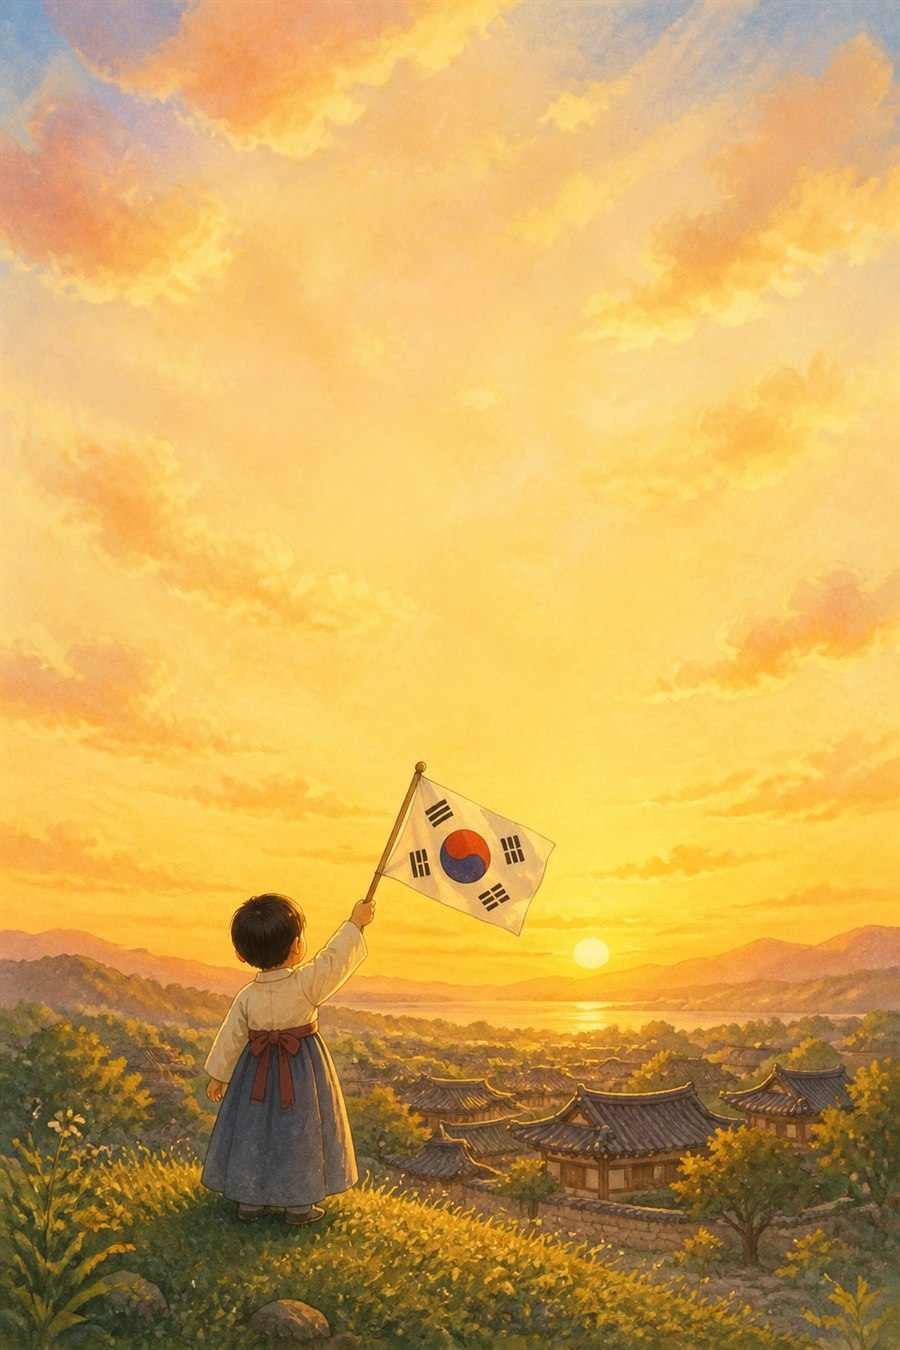
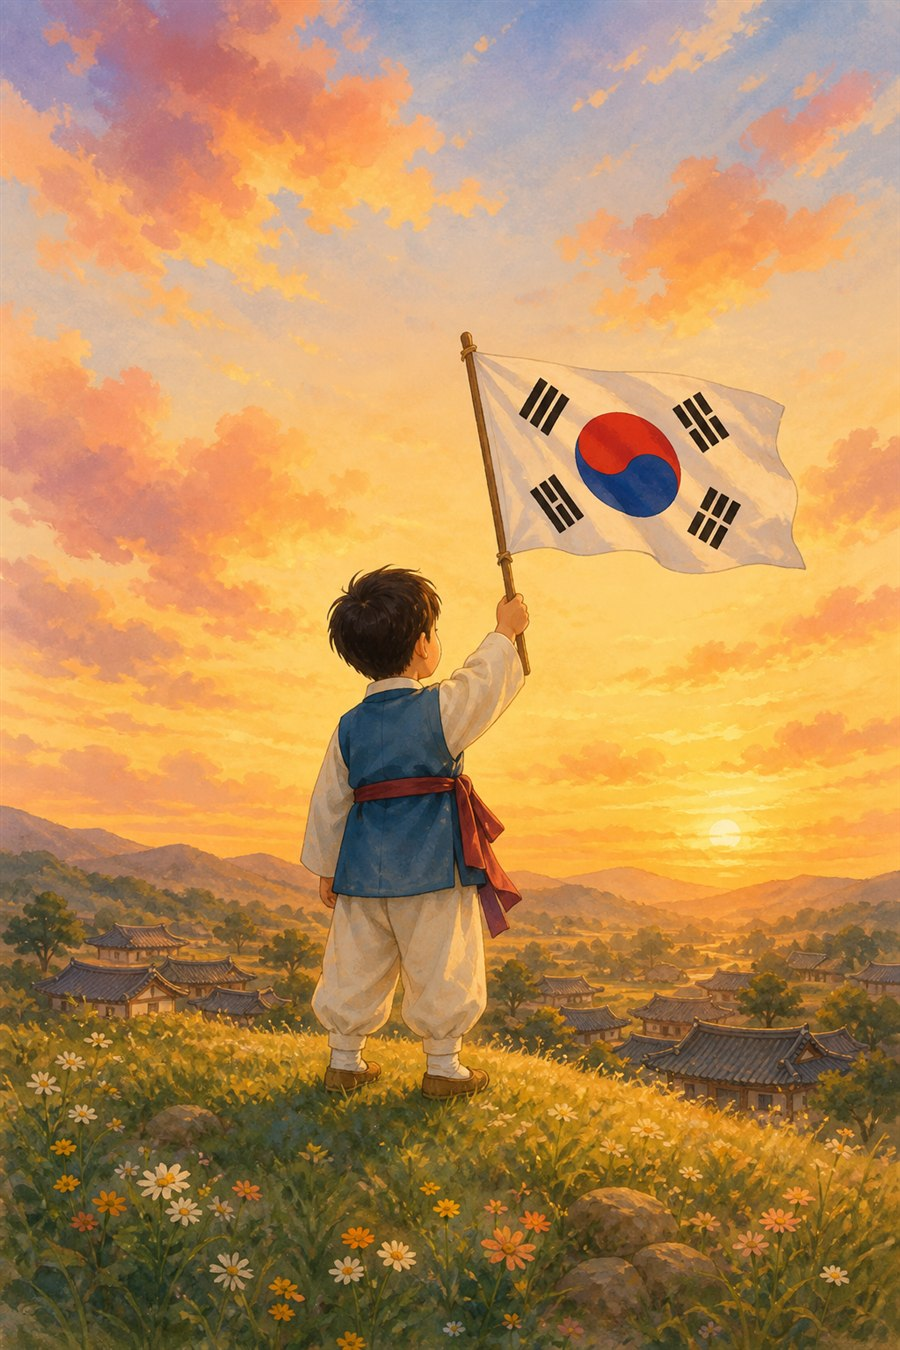
표지 인물 위치 교정, 학년 표기 삭제, 되찾은 집 그림을 광복 뒤로 이동
- 세로 표지 재생성: 영이와 태극기를 화면 중앙에 배치(전에는 하단이라 글자에 가림), 인물도 크고 밝게
- 표지 태그에서 '초등 1~2학년' 삭제 -> '8월 15일 광복절'만
- home2-after(되찾은 집)를 2장(1941년) 완료 시트에서 제거하고 7장 광복 뒤 이야기로 이동
  1941년 장면에서 '되찾았어요'가 나오면 시간 흐름이 깨짐
- 2장 마무리 문구를 시점에 맞게 수정

diff --git a/index.html b/index.html
@@ -312,8 +312,9 @@ const CH = [
   ],
   title:"영이네 집에서 달라진 곳을 찾아라",
   ask:"일본이 들여놓은 것과, 우리 집에서 빼앗아 가는 것을 찾아보세요. 모두 다섯 군데예요.",
-  img:IMG+"home2-before.jpg", after:IMG+"home2-after.jpg",
-  done:"영이네 집을 되찾았어요",
+  img:IMG+"home2-before.jpg",
+  /* 되찾은 집 그림(home2-after)은 아직 1941년이라 여기 쓰지 않는다 — 7장 광복 뒤에 나온다 */
+  done:"영이네 집이 어떻게 달라졌는지 모두 알았어요",
   rule:"일본은 우리 국기, 우리 옷, 우리 물건까지 바꾸고 빼앗아 갔어요.",
   spots:[
     { id:"flag",  label:"일본 국기", x:4,  y:2,  w:19, h:23, yr:"1910년부터",
@@ -382,6 +383,7 @@ const CH = [
 
 /* 6 */ { id:"raise", year:"오늘", music:"joy", kind:"raise",
   pages:[
+    { img:IMG+"home2-after.jpg", lines:["영이네 집도 다시 <em>우리 집</em>이 되었어요.","일본 국기가 걸렸던 자리에는 태극기가,","일본 옷이 있던 자리에는 한복이 걸렸지요."] },
     { img:IMG+"scene-today.jpg", lines:["오늘도 <em>8월 15일</em>이 되면 집집마다 태극기를 답니다.","나라를 되찾은 날을 기억하기 위해서예요.","우리가 만든 태극기를 높이 올려요."] },
   ],
   title:"태극기를 답니다",
@@ -563,7 +565,7 @@ function viewCover(){
     <img class="cover-bg tall" src="${IMG}cover-tall.jpg" alt="" />
     <img class="cover-bg wide" src="${IMG}story-cover.jpg" alt="" />
     <div class="cover-in">
-      <span class="tag">초등 1~2학년 · 8월 15일 광복절</span>
+      <span class="tag">8월 15일 광복절</span>
       <h1>영이의 광복절</h1>
       <p>1910년부터 1945년까지,<br><b style="color:var(--amber)">35년</b>의 이야기를 따라가 봐요.</p>
       <button class="btn" id="go">이야기 시작하기 →</button>
